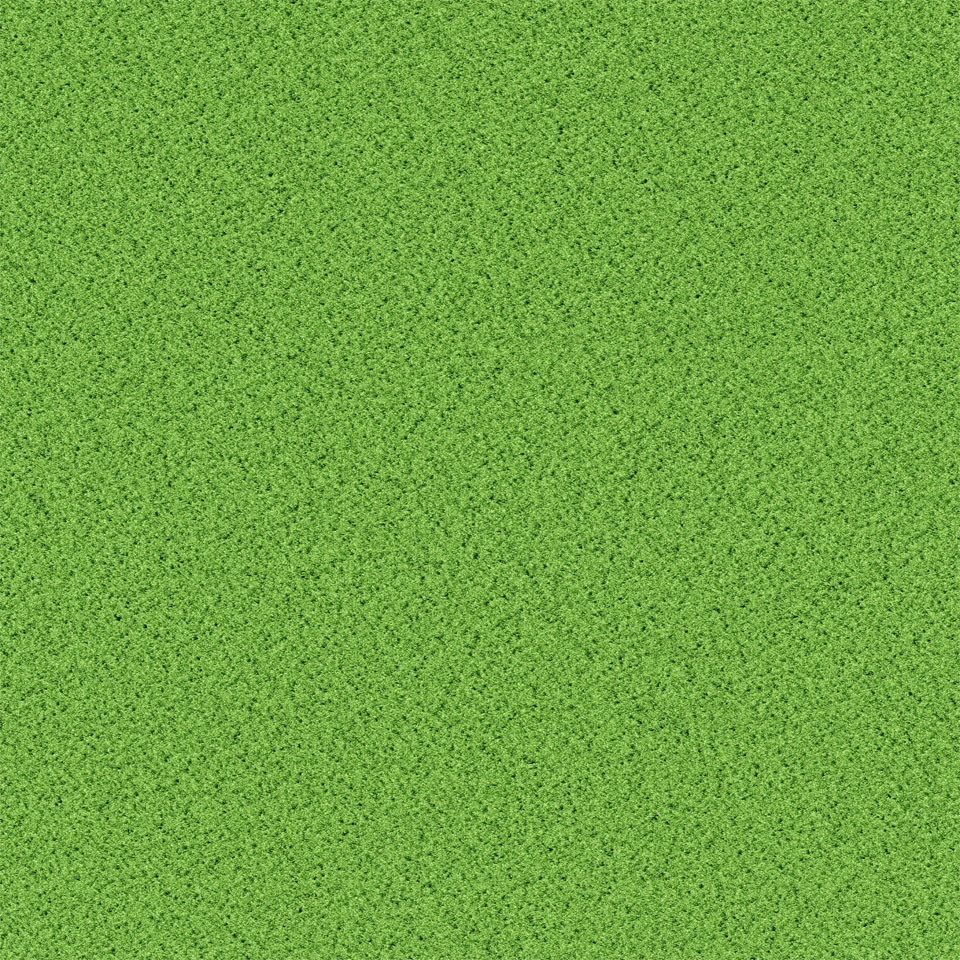
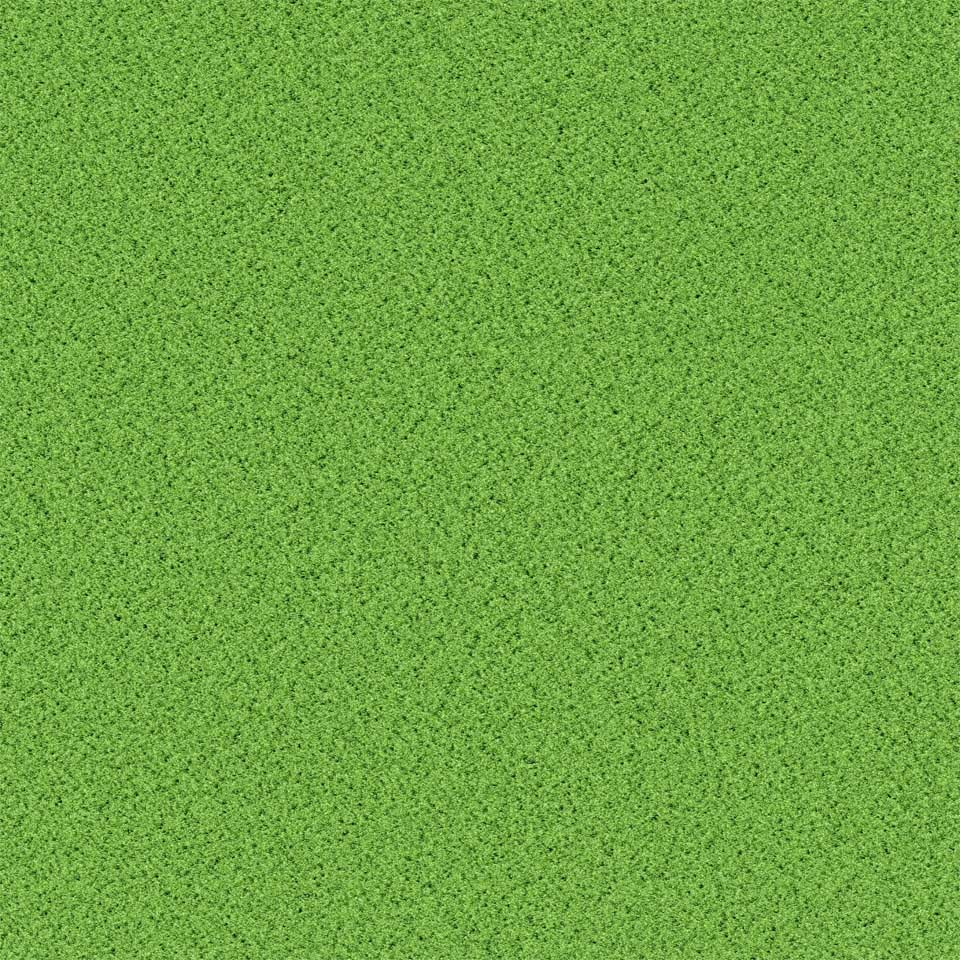
增加背景图片

diff --git a/knockbugs/script/kxq.js b/knockbugs/script/kxq.js
@@ -6,10 +6,7 @@ var WIDTH;
 var HEIGHT;
 
 // 全局数据
-var bg_img;
-var canvas_pattern;
-var canvas_gradient;
-var bg_list = [undefined, 'floor.png', 'floor2.jpg', 'floor3.jpeg', 'floor4.jpg'];
+var bg_list = [undefined, 'floor2.jpg', 'floor5.jpg', 'floor6.jpg', 'floor3.jpg', 'floor4.jpg'];
 var image;
 var brush;
 var gameCount = 0; // 关卡数
@@ -57,11 +54,6 @@ function init() {
 	// HEIGHT = canvas.height = document.body.clientHeight;
 
 	image = $('#image_source')[0];
-	bg_img = $('#bg_img')[0];
-	canvas_pattern = ctx.createPattern(bg_img, 'repeat');
-	canvas_gradient = ctx.createLinearGradient(0, 0, WIDTH, HEIGHT);
-	canvas_gradient.addColorStop(0, 'rgb(0, 137, 40)');
-	canvas_gradient.addColorStop(1, 'rgb(0, 137, 143)');
 
 	PopWin.init();
 

diff --git a/knockbugs/index.html b/knockbugs/index.html
@@ -48,7 +48,6 @@ body {
 </head>
 <body onload="init();">
 	<img id="image_source" src="image/xq.png" />
-	<img id="bg_img" src="image/floor.png" />
 	<canvas id="canvas" width="800" height="640"></canvas>
 </body>
 </html>
